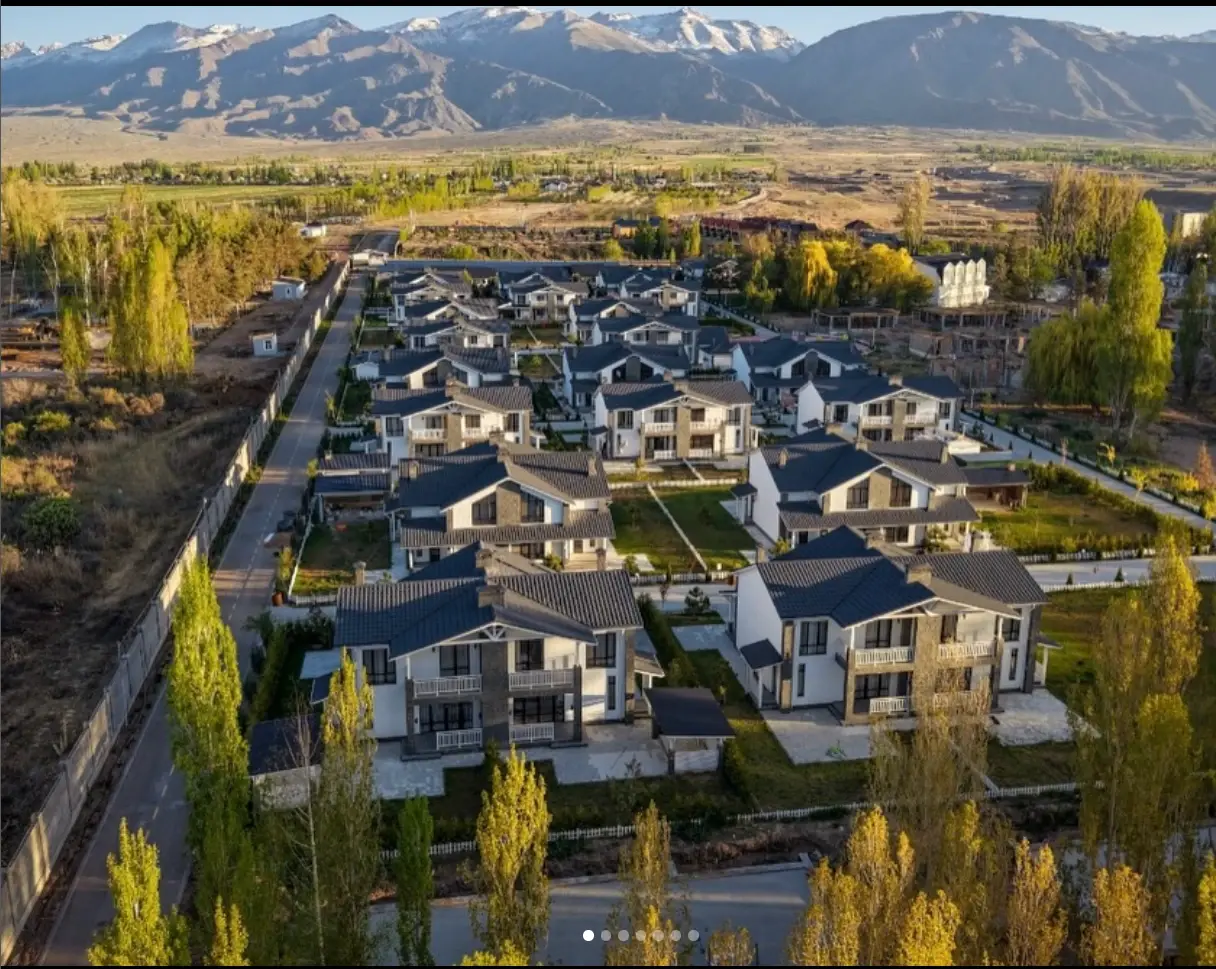
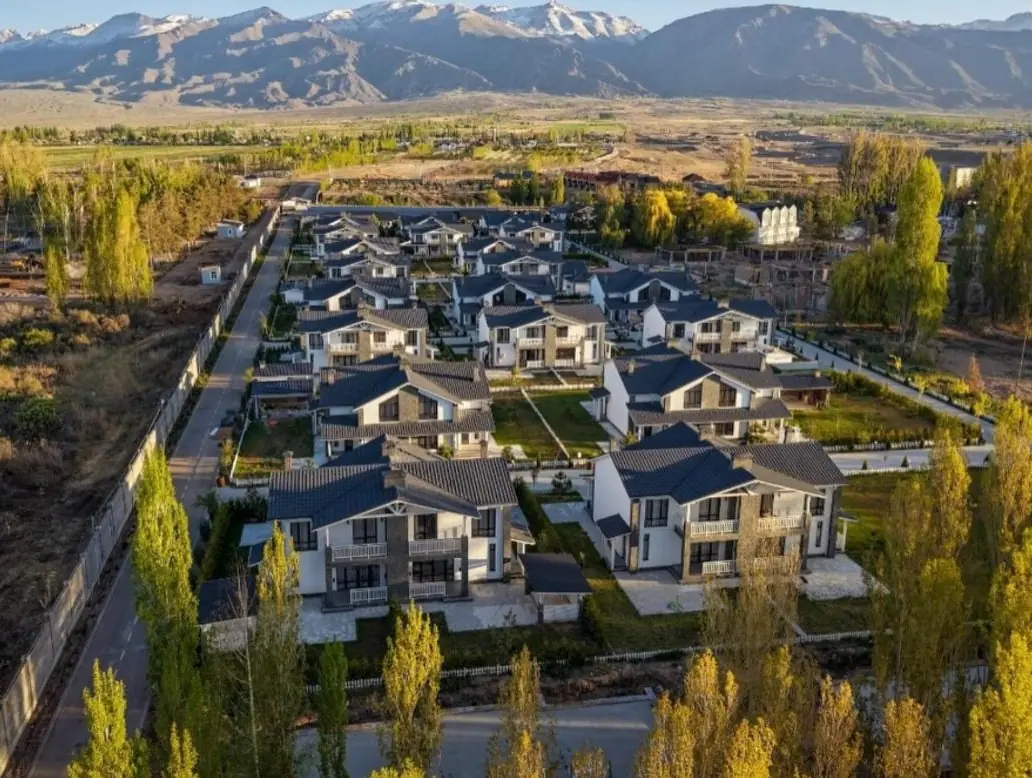
Чайка: аэроснимки без водяного знака
Три кадра с высоты — дом, бухта, улица комплекса — были взяты из чужой
ленты и несли подпись u.tileka поперёк фотографии. В коммерческом
предложении те же сцены сняты чисто; ими и заменены.

raspolozhenie.webp убран: после замены он показывал то же, что и
kompleks.webp, и тоже с подписью.

Claude-Session: https://claude.ai/code/session_011fXYgZNur5yPGpS3EXwzdx

diff --git a/app/chaika-resort/page.tsx b/app/chaika-resort/page.tsx
@@ -47,8 +47,9 @@ const AIRBNB = 'https://www.airbnb.ru/rooms/1420997659375471402';
  * Размеры заданы явно: без них страница прыгает, пока грузятся снимки.
  */
 const PHOTOS: { src: string; alt: string; w: number; h: number }[] = [
-  { src: '/chaika/dom-s-vysoty.webp', w: 1600, h: 863,
-    alt: 'Два дома комплекса с высоты, за ними полоса деревьев и пляж' },
+  { src: '/chaika/dom-s-vysoty.webp', w: 998, h: 778,
+    alt: 'Дом с высоты: черепичная крыша, крытая терраса, мощёный двор, '
+       + 'за домом тополя и полоса озера' },
   { src: '/chaika/gostinaya.webp', w: 1032, h: 778,
     alt: 'Гостиная: два дивана, телевизор, в глубине кухня-столовая' },
   { src: '/chaika/kuhnya-stolovaya.webp', w: 1036, h: 778,
@@ -61,12 +62,11 @@ const PHOTOS: { src: string; alt: string; w: number; h: number }[] = [
     alt: 'Спальня с рабочим столом и выходом на балкон' },
   { src: '/chaika/terrasa.webp', w: 1032, h: 778,
     alt: 'Крытая терраса второго этажа, за перилами деревья, пляж и озеро' },
-  { src: '/chaika/kompleks.webp', w: 1216, h: 969,
-    alt: 'Территория комплекса с высоты, на горизонте снежные горы' },
-  { src: '/chaika/plyazh.webp', w: 1200, h: 887,
-    alt: 'Пляж и бухта Иссык-Куля на закате' },
-  { src: '/chaika/raspolozhenie.webp', w: 1200, h: 644,
-    alt: 'Расположение комплекса относительно пляжа, с высоты' },
+  { src: '/chaika/kompleks.webp', w: 1032, h: 778,
+    alt: 'Улица комплекса с высоты: ряды домов с зелёными дворами, '
+       + 'на горизонте снежные горы' },
+  { src: '/chaika/plyazh.webp', w: 1038, h: 778,
+    alt: 'Песчаная бухта Иссык-Куля с навесами, за ней горный хребет' },
 ];
 
 /** Коммерческое предложение агентства — тот же дом, одним файлом. */
